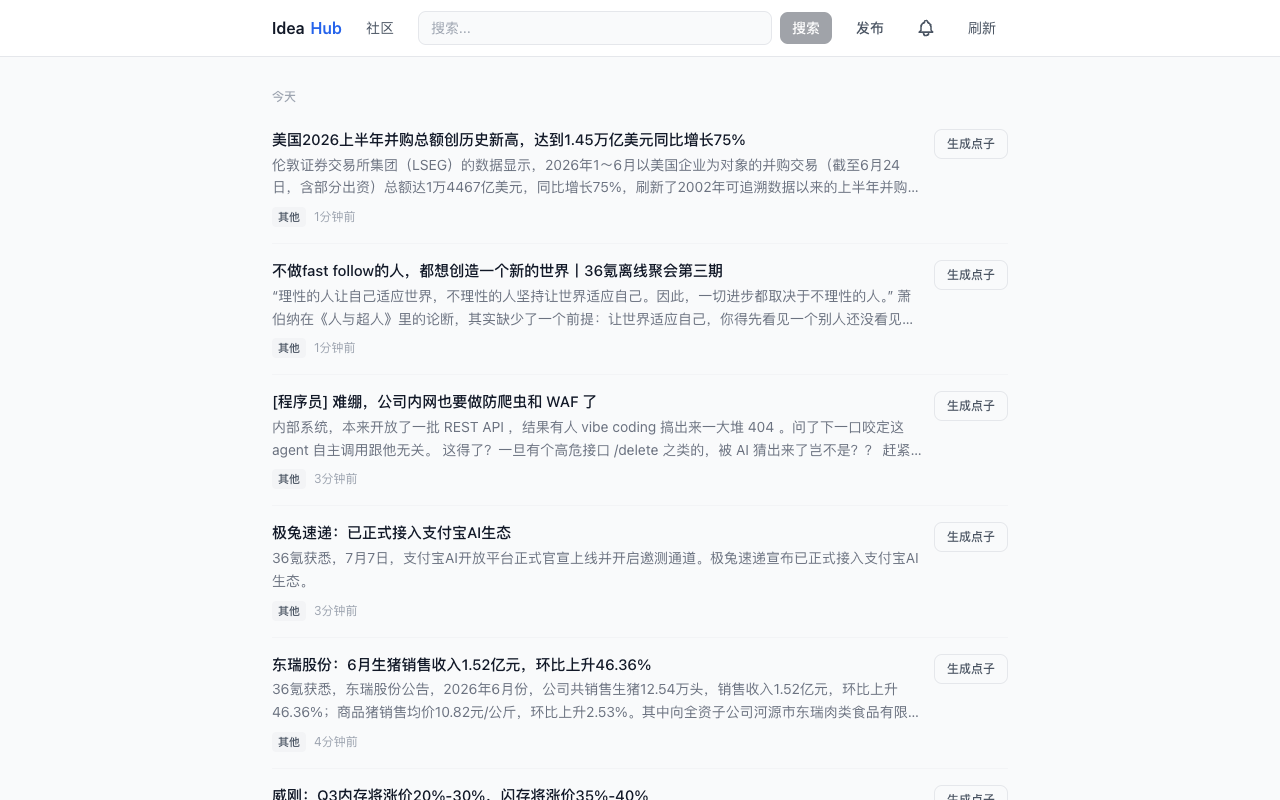
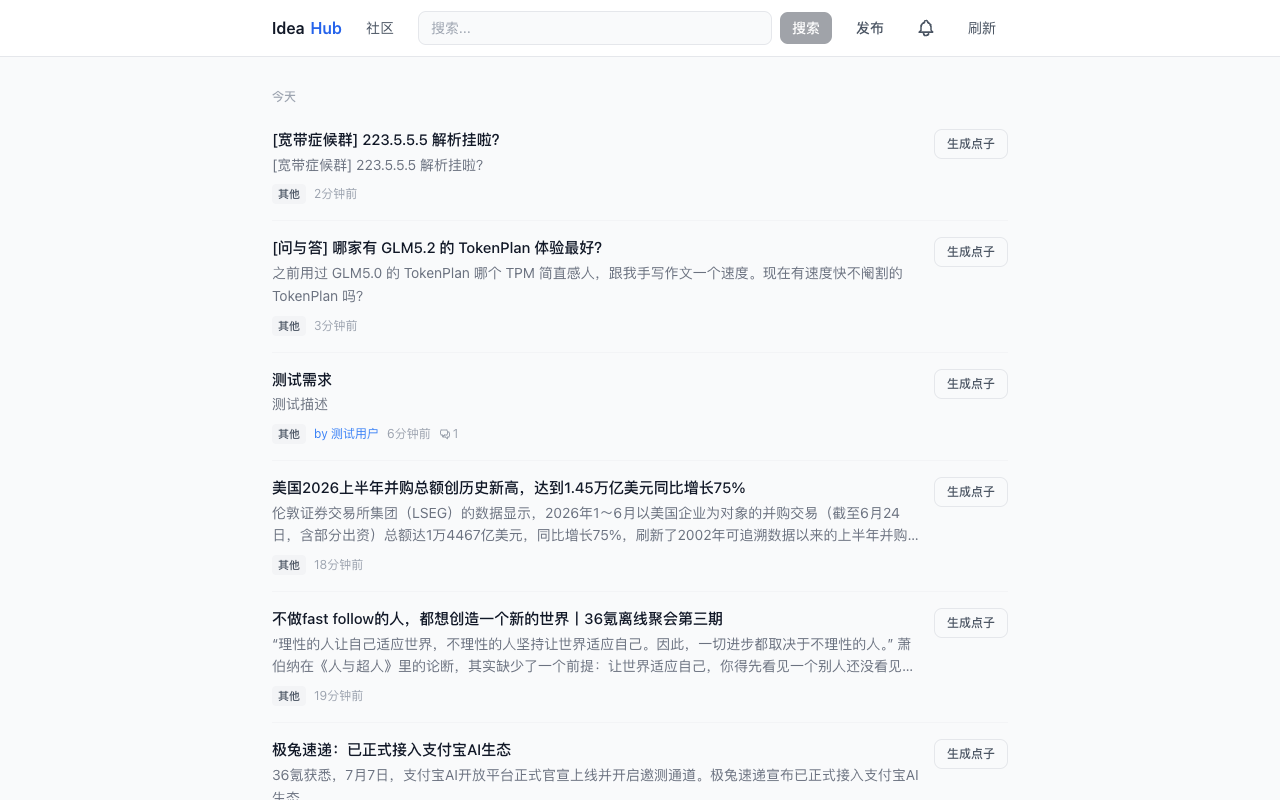
fix: hide header/footer on landing page

diff --git a/components/Footer.tsx b/components/Footer.tsx
@@ -1,0 +1,17 @@
+'use client'
+
+import { usePathname } from 'next/navigation'
+
+export default function Footer() {
+  const pathname = usePathname()
+  if (pathname === '/home') return null
+
+  return (
+    <footer className="border-t border-gray-100 dark:border-gray-800 mt-12">
+      <div className="mx-auto max-w-3xl px-4 py-6 flex flex-col sm:flex-row items-center justify-between gap-2 text-xs text-gray-400 dark:text-gray-500">
+        <span>IdeaHub</span>
+        <span>从需求到产品</span>
+      </div>
+    </footer>
+  )
+}

diff --git a/app/layout.tsx b/app/layout.tsx
@@ -2,6 +2,7 @@ import type { Metadata, Viewport } from 'next'
 import './globals.css'
 import Header from '@/components/Header'
 import LandingHeader from '@/components/LandingHeader'
+import Footer from '@/components/Footer'
 
 export const metadata: Metadata = {
   title: 'IdeaHub',
@@ -43,12 +44,7 @@ export default function RootLayout({
         <main className="mx-auto max-w-3xl px-4 py-6">
           {children}
         </main>
-        <footer className="border-t border-gray-100 dark:border-gray-800 mt-12">
-          <div className="mx-auto max-w-3xl px-4 py-6 flex flex-col sm:flex-row items-center justify-between gap-2 text-xs text-gray-400 dark:text-gray-500">
-            <span>IdeaHub</span>
-            <span>从需求到产品</span>
-          </div>
-        </footer>
+        <Footer />
       </body>
     </html>
   )

diff --git a/components/Header.tsx b/components/Header.tsx
@@ -83,6 +83,9 @@ export default function Header() {
     error: '抓取失败',
   }[refreshState]
 
+  const isLanding = pathname === '/home'
+  if (isLanding) return null
+
   return (
     <>
       {/* 移动端搜索弹窗 */}

diff --git a/components/LandingHeader.tsx b/components/LandingHeader.tsx
@@ -10,7 +10,7 @@ export default function LandingHeader() {
   if (!isLanding) return null
 
   return (
-    <header className="fixed top-0 left-0 right-0 z-50">
+    <header className="fixed top-0 left-0 right-0 z-50 bg-transparent">
       <div className="mx-auto max-w-5xl px-4">
         <div className="flex items-center justify-between h-16">
           <Link href="/home" className="flex items-center gap-1.5 font-semibold text-white">